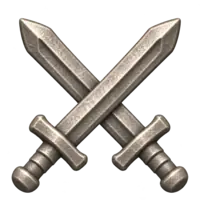
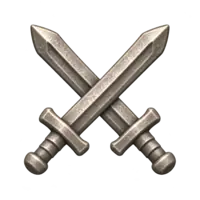
Picto Combat : épées un peu plus petites et recentrées
Les épées croisées remplissaient leur carré et descendaient de 5 px : une retouche par picto
(PICTO_TWEAKS, taille 0,86, remontées de 5 px) à la fabrication, sans toucher à l'image d'Idan.

Claude-Session: https://claude.ai/code/session_01EeJJTXzBZEvAnWuDndFYuJ

diff --git a/scripts/build-hud-bars.js b/scripts/build-hud-bars.js
@@ -42,6 +42,9 @@ const PICTOS_OUT=path.join(ROOT,"prototype-web","assets","hud","pictos-bas");
 const BOTTOM_PICTOS=[["chateau","chateau"],["taverne","chope"],["dortoir","lit"],["marchand","balance"],["intendance","caisse"],
   ["construction","maison"],["combat","epee"],["nouvelles","pigeon"],["journal","journal"],["discussions","bulle"]];
 const PICTO_CROP=960/1254,PICTO_SIZE=200;
+// Retouches d'un picto dont le dessin sort du lot (Idan, 2026-11-14 : « les épées du combat semblent décalées et un peu
+// trop grosses ») : taille, l'échelle du dessin ; haut, de combien de pixels (sur PICTO_SIZE) le remonter.
+const PICTO_TWEAKS={combat:{taille:.86,haut:5}};
 // Les réglages par culture (Atelier des barres) ; une culture sans réglage prend ceux de départ de l'atelier.
 const SETTINGS=path.join(__dirname,"hud-bars-reglages.json");
 const DEFAULT_SETTINGS={
@@ -230,9 +233,11 @@ function buildPictos(dir){
     if(!key) continue;
     const file=path.join(dir,name);
     const [w,h]=execFileSync("identify",["-format","%w %h",file],{encoding:"utf8"}).trim().split(" ").map(Number);
-    const side=Math.round(Math.min(w,h)*PICTO_CROP);
+    const tweak=PICTO_TWEAKS[key]||{},side=Math.round(Math.min(w,h)*PICTO_CROP/(tweak.taille||1));
+    // Le carré, décalé vers le bas pour remonter le dessin ; une marge transparente s'il dépasse de l'image.
+    const shift=Math.round((tweak.haut||0)*side/PICTO_SIZE),margin=side;
     fs.mkdirSync(PICTOS_OUT,{recursive:true});
-    execFileSync("convert",[file,"-crop",`${side}x${side}+${Math.round((w-side)/2)}+${Math.round((h-side)/2)}`,"+repage","-resize",`${PICTO_SIZE}x${PICTO_SIZE}`,
+    execFileSync("convert",[file,"-bordercolor","none","-border",String(margin),"-crop",`${side}x${side}+${Math.round((w-side)/2)+margin}+${Math.round((h-side)/2)+shift+margin}`,"+repage","-resize",`${PICTO_SIZE}x${PICTO_SIZE}`,
       "-strip","-quality","90","-define","webp:alpha-quality=100","-define","webp:method=6",path.join(PICTOS_OUT,key+".webp")]);
     built.push(key);
   }
